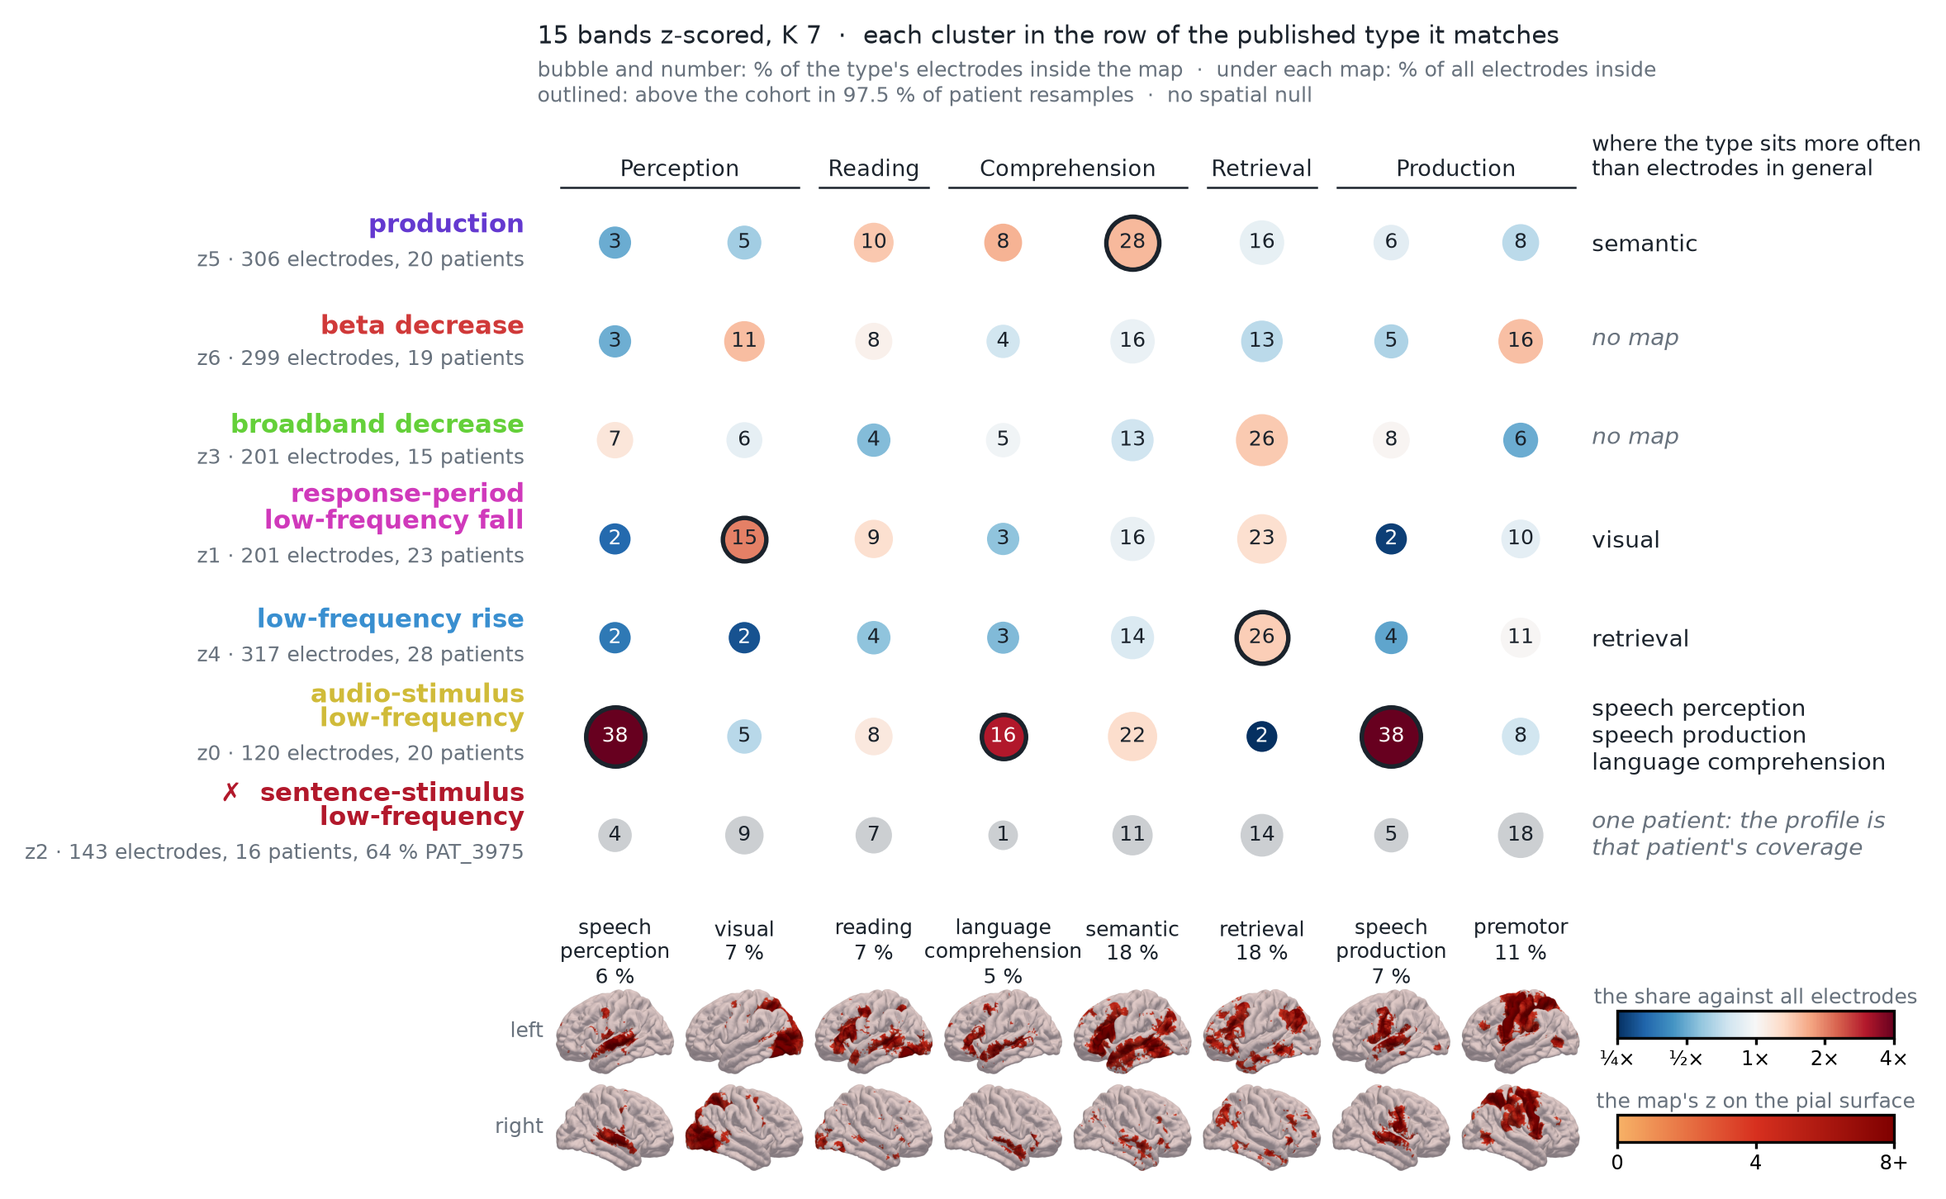
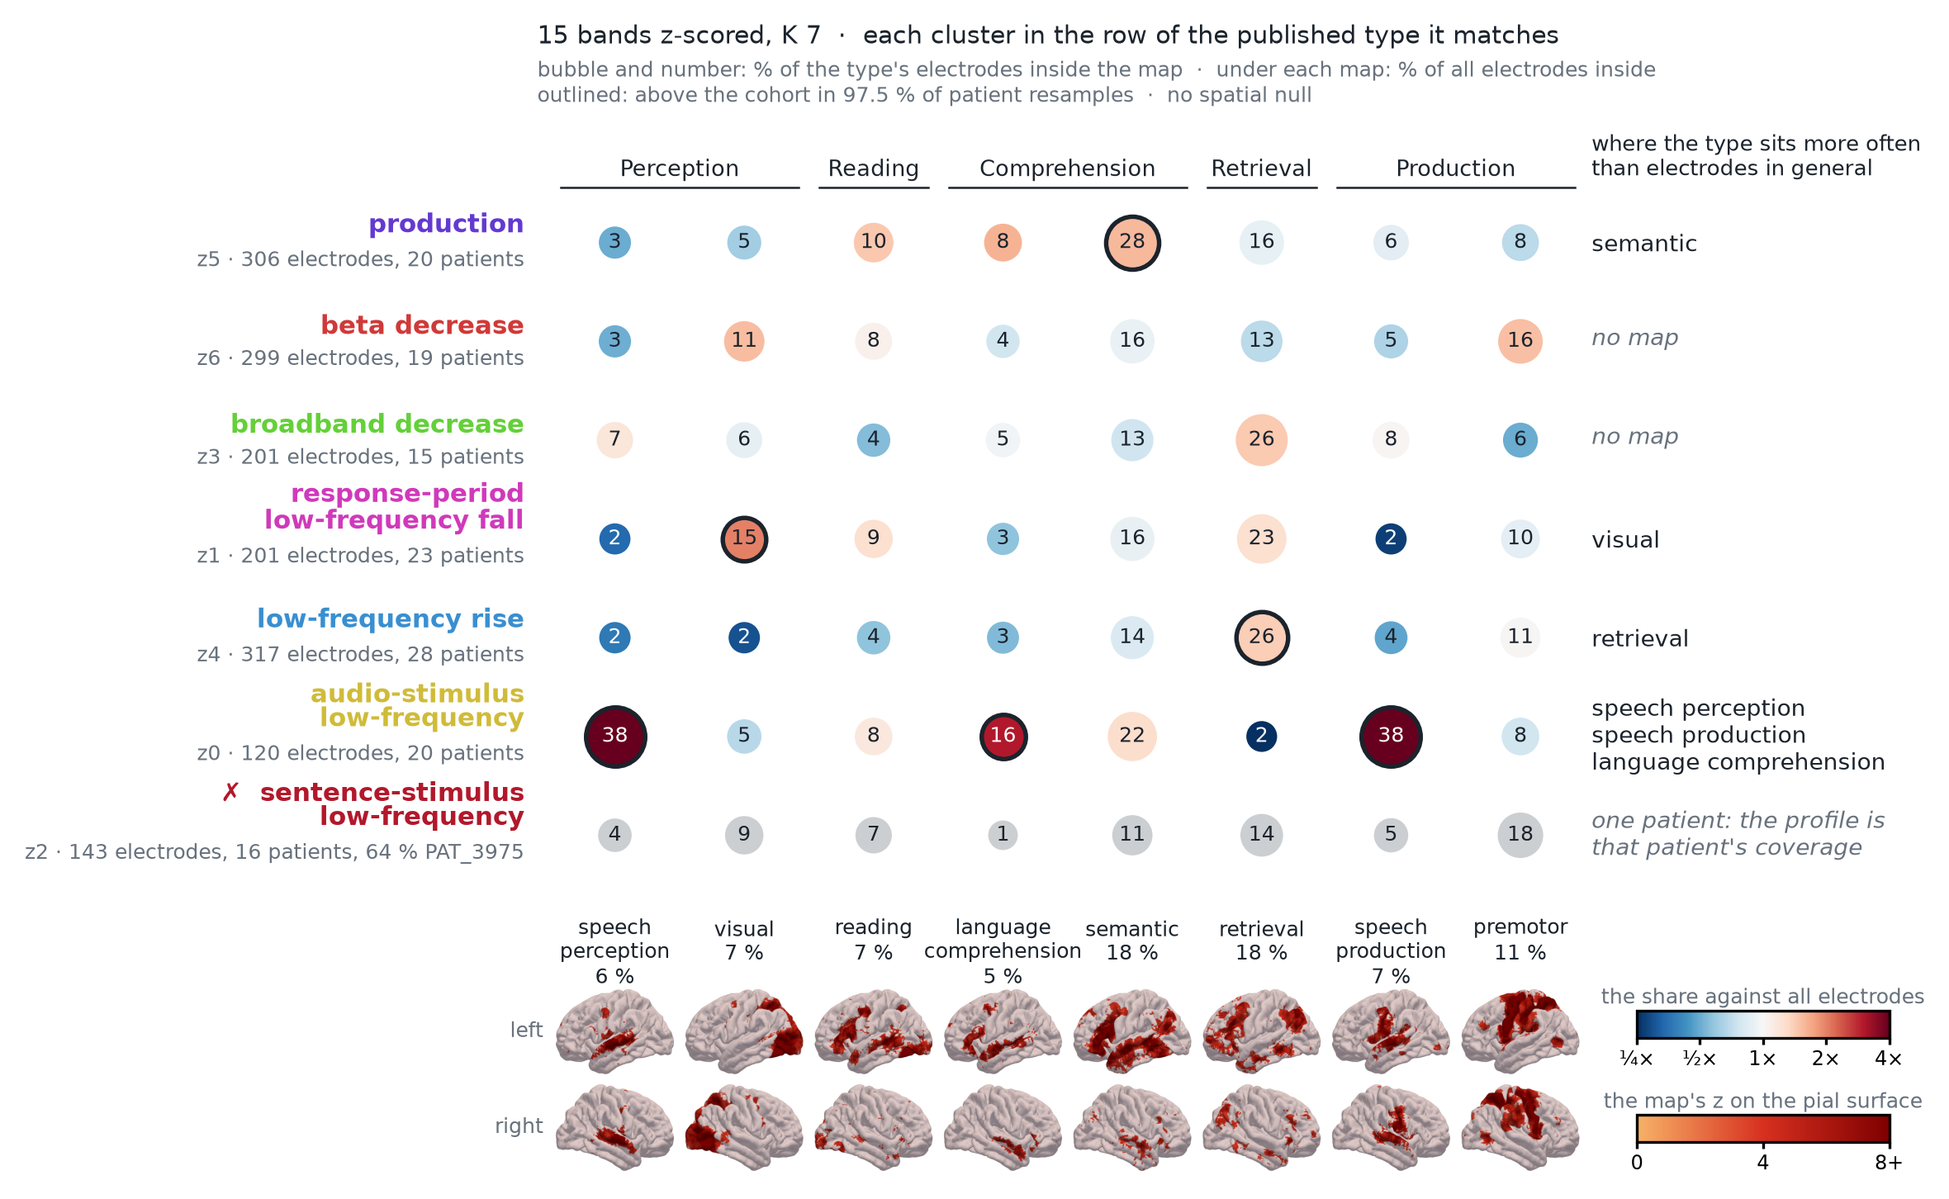
Poster NeuroSynth panel, second version: cluster ids only and each cluster's glass brains (render_hemi, the cards' rule) before its row, 28 cluster tiles reused with --no-render; the colour bars anchored right of the last column (Lora, 2026-11-03)

diff --git a/02_FBM_Clustering/make_poster_assets.py b/02_FBM_Clustering/make_poster_assets.py
@@ -20,6 +20,9 @@ Writes outputs/clustering/paper_figures/poster/assets/:
                          (out_k7/neurosynth_labels/labels.csv, nothing recomputed) at print size, for
                          15 bands and for the z-scored companion; under each map name the map on the
                          fsaverage pial surface (ns_brain_<term>_<side>.png, reused with --no-render)
+  neurosynth_<tag>_brains.png
+                         the same with the cluster ids only and each cluster's glass brains before its
+                         row (render_hemi, ns_cluster_<tag>_c<id>_<side>.png, reused with --no-render)
   separation_row.png     the two held-out confusions (one patient out, patient halves) and the
                          silhouette of every electrode per type against the Gaussian cloud;
                          separation_violin_loading.png is the loading alternative
@@ -485,109 +488,170 @@ def ns_brain_image(term, side):
     return img
 
 
+def cluster_brain(tag, c, side, d, zrun):
+    """The cluster's electrodes on the glass brain of one hemisphere under the paper's rule (render_hemi:
+    loading >= LOAD_CUT drawn, colour, size and opacity from the loading). A z-scored cluster is drawn in
+    the colour of the published type it matches. Saved as assets/ns_cluster_<tag>_c<c>_<side>.png and
+    reused with --no-render."""
+    p = OUT / f"ns_cluster_{tag}_c{c}_{side}.png"
+    if p.exists() and NO_RENDER:
+        return np.asarray(Image.open(p).convert("RGBA"))
+    if tag == "15band":
+        img, _ = P2.render_hemi(side, d, c)
+    else:
+        dz, colmap = zrun()
+        orig = P2.cluster_col
+        P2.cluster_col = lambda j, kk: colmap.get(j, (0.60, 0.60, 0.60))
+        try:
+            img, _ = P2.render_hemi(side, dz, c)
+        finally:
+            P2.cluster_col = orig
+    Image.fromarray(img).save(p)
+    return img
+
+
 def neurosynth(d):
     """The eight-map label matrix of member_measures/10_neurosynth_labels.py redrawn at print size,
     for 15 bands and for the z-scored companion: bubble and number = % of the type's electrodes
     inside the NeuroSynth map (z > 0), colour = that share against the cohort's (log scale),
     outlined = the share is above the cohort's in 97.5 % of patient resamples. Everything is read
     from out_k7/neurosynth_labels/labels.csv, nothing is recomputed. The z-scored clusters sit in
-    the row of the published type they are matched to (out_k7/matching.csv) and carry its name and
-    colour; a cluster that is more than half one patient is greyed with a cross. Under each map name the
-    map itself on the fsaverage pial surface, from the left and from the right (ns_brain_image)."""
+    the row of the published type they are matched to (out_k7/matching.csv) and carry its colour;
+    a cluster that is more than half one patient is greyed with a cross. Under each map name the
+    map itself on the fsaverage pial surface, from the left and from the right (ns_brain_image).
+    Two versions per set: neurosynth_<tag>.png with the type names, neurosynth_<tag>_brains.png
+    with the cluster ids only and each cluster's glass brains (cluster_brain) before its row."""
     from matplotlib.colors import TwoSlopeNorm
     lab = pd.read_csv(MM / "neurosynth_labels" / "labels.csv")
     match = pd.read_csv(MM / "matching.csv")
     norm = TwoSlopeNorm(vmin=-2, vcenter=0, vmax=2); cmap = plt.get_cmap("RdBu_r")
     names = [m for _, m in NS_MAPS]
+    _z = {}
+
+    def zrun():
+        """The z-scored run (its newest cNMF run, K 7) and its clusters' colours = their matched types'."""
+        if "d" not in _z:
+            dz = P2.load_run("concat_bands15z", K, "cnmf"); dz["fset"] = "concat_bands15z"
+            assert len(dz["xyz"]) == len(d["xyz"]) and np.allclose(np.nan_to_num(dz["xyz"]), np.nan_to_num(d["xyz"])), "the z run's electrodes are not in the published run's order"
+            mz = match[match.fset == "15zband"]
+            _z["d"] = dz; _z["col"] = {int(r.cluster): d["col"][int(r.type_15band)] for r in mz.itertuples()}
+        return _z["d"], _z["col"]
+
     out = {}
     for tag in ("15band", "15zband"):
         t = lab[(lab.fset == tag) & (lab.k == K)]
         meas = pd.read_csv(MM / tag / "measures.csv")
         npat = meas.assign(p=meas.key.str.split("|").str[0]).groupby("type").p.nunique()
-        rows = []                                          # (cluster, type name, colour, prefix of the count line)
+        rows = []                                          # (cluster, type name, colour, published type)
         for j in d["order"]:
             if tag == "15band":
-                rows.append((j, d["names"].get(j, f"c{j}"), d["col"][j], ""))
+                rows.append((j, d["names"].get(j, f"c{j}"), d["col"][j], j))
             else:
                 m = match[(match.fset == tag) & (match.type_15band == j)]
                 if not m.empty:
-                    c = int(m.cluster.iloc[0]); rows.append((c, d["names"].get(j, f"c{j}"), d["col"][j], f"z{c} · "))
+                    rows.append((int(m.cluster.iloc[0]), d["names"].get(j, f"c{j}"), d["col"][j], j))
         n_rows = len(rows)
-        fig_h = 1.4 + 0.46 * n_rows + 1.15                 # 1.15 in for the brains under the names
-        fig, ax = plt.subplots(figsize=(7.4, fig_h), dpi=DPI)
-        fig.subplots_adjust(left=0.20, right=0.955, top=1 - 0.65 / fig_h, bottom=1.95 / fig_h)
-        print(f"  neurosynth {tag}:")
-        for r_, (c, name, col, pre) in enumerate(rows):
-            y = n_rows - 1 - r_
-            tc = t[t.cluster == c].set_index("map")
-            top_share = float(tc.top_patient_share.iloc[0]); bad = top_share > 0.5
+        for brains in (False, True):
+            fig_h = 1.4 + 0.46 * n_rows + 1.15                 # 1.15 in for the brains under the names
+            fig, ax = plt.subplots(figsize=(7.4, fig_h), dpi=DPI)
+            left = 0.07 if brains else 0.20
+            fig.subplots_adjust(left=left, right=0.955, top=1 - 0.65 / fig_h, bottom=1.95 / fig_h)
+            xl, xn = (-2.95, -3.05) if brains else (-0.6, -0.7)   # the axes' left edge and where the row label sits
+            print(f"  neurosynth {tag}{' with the cluster brains' if brains else ''}:")
+            brain_rows = []
+            for r_, (c, name, col, j) in enumerate(rows):
+                y = n_rows - 1 - r_
+                tc = t[t.cluster == c].set_index("map")
+                top_share = float(tc.top_patient_share.iloc[0]); bad = top_share > 0.5
+                for x, mname in enumerate(names):
+                    q = tc.loc[mname]
+                    pct = float(q.pct_inside); le = float(np.log2(max(float(q.enrichment), 1e-3)))
+                    face = NS_GREY if bad else cmap(norm(float(np.clip(le, -2, 2))))
+                    sure = bool(q.outlined) and not bad
+                    ax.scatter(x, y, s=70 + 360 * min(pct, 60) / 60, c=[face], alpha=0.5 if bad else 1.0,
+                               edgecolors=INK if sure else "none", linewidths=1.3 if sure else 0, zorder=3)
+                    ax.text(x, y, f"{pct:.0f}", ha="center", va="center", fontsize=6.0, zorder=4,
+                            color="white" if (not bad and abs(le) > 1.1) else INK)
+                n_ = int(tc.n.iloc[0]); p_ = int(npat.get(c, 0))
+                if brains:
+                    head = f"c{c}" if tag == "15band" else f"z{c}"
+                    sub = ("" if tag == "15band" else f"≈ c{j} · ") + f"{n_} electrodes, {p_} patients"
+                    brain_rows.append((y, c))
+                else:
+                    head = wrap_name(name)
+                    sub = ("" if tag == "15band" else f"z{c} · ") + f"{n_} electrodes, {p_} patients"
+                if bad:
+                    sub += f", {100 * top_share:.0f} % {tc.top_patient.iloc[0]}"
+                ax.text(xn, y + 0.04, ("✗  " if bad else "") + head, ha="right", va="bottom", fontsize=7.4,
+                        color="#b2182b" if bad else col, fontweight="bold", linespacing=1.05)
+                ax.text(xn, y - 0.08, sub, ha="right", va="top", fontsize=6.0, color=MUTED)
+                sure_maps = tc[tc.outlined.astype(bool)].sort_values("enrichment", ascending=False).index.tolist()
+                if bad:
+                    label = "one patient: the profile is" + NL + "that patient's coverage"
+                elif sure_maps:
+                    label = NL.join(sure_maps[:3])
+                else:
+                    label = "no map"
+                ax.text(len(names) - 0.45, y, label, ha="left", va="center", fontsize=6.8, linespacing=1.15,
+                        color=MUTED if (bad or not sure_maps) else INK, style="italic" if (bad or not sure_maps) else "normal")
+                print(f"    {head.replace(NL, ' '):36s} {label.replace(NL, ' / ')}")
+            stages = [s for s, _ in NS_MAPS]
+            for s in dict.fromkeys(stages):
+                cs = [i for i, x in enumerate(stages) if x == s]
+                ax.text(float(np.mean(cs)), n_rows - 0.38, s, ha="center", va="bottom", fontsize=6.4, color=INK)
+                ax.plot([min(cs) - 0.42, max(cs) + 0.42], [n_rows - 0.44] * 2, color=INK, lw=0.6)
+            coh = t[t.cluster == rows[0][0]].set_index("map").cohort_pct
+            ax.set_xticks(range(len(names)))
+            ax.set_xticklabels([f"{m.replace(' ', NL)}{NL}{float(coh[m]):.0f} %" for m in names], fontsize=6.0, color=INK, linespacing=1.15)
+            ax.set_yticks([]); ax.set_xlim(xl, len(names) + 2.1); ax.set_ylim(-0.7, n_rows + 0.25)
+            for s_ in ax.spines.values():
+                s_.set_visible(False)
+            ax.tick_params(length=0)
+            ax.text(len(names) - 0.45, n_rows - 0.38, "where the type sits more often" + NL + "than electrodes in general", ha="left", va="bottom", fontsize=6.2, color=INK, linespacing=1.15)
+            aw, ah = 7.4 * (0.955 - left), fig_h - 0.65 - 1.95
+            x0_, x1_ = ax.get_xlim(); u = 1.0 / (x1_ - x0_)
+            y0_, y1_ = ax.get_ylim(); v = 1.0 / (y1_ - y0_)
+            # the cluster's own electrodes on the glass brain, left and right, before its row
+            for y, c in brain_rows:
+                for k_, side in enumerate(("L", "R")):
+                    im = cluster_brain(tag, c, side, d, zrun)
+                    w_f = 0.92 * u; h_f = w_f * aw / ah * im.shape[0] / im.shape[1]
+                    ia = ax.inset_axes([(-2.45 + 0.95 * k_ - x0_) * u - w_f / 2, (y - y0_) * v - h_f / 2, w_f, h_f])
+                    ia.imshow(im); ia.axis("off")
+            if brains:
+                for k_, side in enumerate(("L", "R")):
+                    ax.text(-2.45 + 0.95 * k_, n_rows - 0.38, "left" if side == "L" else "right", ha="center", va="bottom", fontsize=6.4, color=INK)
+                ax.plot([-2.45 - 0.42, -1.5 + 0.42], [n_rows - 0.44] * 2, color=INK, lw=0.6)
+            # the maps themselves under the names: the pial surface from the left and from the right, z > 0 painted on it
+            y_top = -0.34 / ah
             for x, mname in enumerate(names):
-                q = tc.loc[mname]
-                pct = float(q.pct_inside); le = float(np.log2(max(float(q.enrichment), 1e-3)))
-                face = NS_GREY if bad else cmap(norm(float(np.clip(le, -2, 2))))
-                sure = bool(q.outlined) and not bad
-                ax.scatter(x, y, s=70 + 360 * min(pct, 60) / 60, c=[face], alpha=0.5 if bad else 1.0,
-                           edgecolors=INK if sure else "none", linewidths=1.3 if sure else 0, zorder=3)
-                ax.text(x, y, f"{pct:.0f}", ha="center", va="center", fontsize=6.0, zorder=4,
-                        color="white" if (not bad and abs(le) > 1.1) else INK)
-            n_ = int(tc.n.iloc[0]); p_ = int(npat.get(c, 0))
-            ax.text(-0.7, y + 0.04, ("✗  " if bad else "") + wrap_name(name), ha="right", va="bottom", fontsize=7.4,
-                    color="#b2182b" if bad else col, fontweight="bold", linespacing=1.05)
-            ax.text(-0.7, y - 0.08, pre + f"{n_} electrodes, {p_} patients" + (f", {100 * top_share:.0f} % {tc.top_patient.iloc[0]}" if bad else ""),
-                    ha="right", va="top", fontsize=6.0, color=MUTED)
-            sure_maps = tc[tc.outlined.astype(bool)].sort_values("enrichment", ascending=False).index.tolist()
-            if bad:
-                label = "one patient: the profile is" + NL + "that patient's coverage"
-            elif sure_maps:
-                label = NL.join(sure_maps[:3])
-            else:
-                label = "no map"
-            ax.text(len(names) - 0.45, y, label, ha="left", va="center", fontsize=6.8, linespacing=1.15,
-                    color=MUTED if (bad or not sure_maps) else INK, style="italic" if (bad or not sure_maps) else "normal")
-            print(f"    {pre}{name:36s} {label.replace(NL, ' / ')}")
-        stages = [s for s, _ in NS_MAPS]
-        for s in dict.fromkeys(stages):
-            cs = [i for i, x in enumerate(stages) if x == s]
-            ax.text(float(np.mean(cs)), n_rows - 0.38, s, ha="center", va="bottom", fontsize=6.4, color=INK)
-            ax.plot([min(cs) - 0.42, max(cs) + 0.42], [n_rows - 0.44] * 2, color=INK, lw=0.6)
-        coh = t[t.cluster == rows[0][0]].set_index("map").cohort_pct
-        ax.set_xticks(range(len(names)))
-        ax.set_xticklabels([f"{m.replace(' ', NL)}{NL}{float(coh[m]):.0f} %" for m in names], fontsize=6.0, color=INK, linespacing=1.15)
-        ax.set_yticks([]); ax.set_xlim(-0.6, len(names) + 2.1); ax.set_ylim(-0.7, n_rows + 0.25)
-        for s_ in ax.spines.values():
-            s_.set_visible(False)
-        ax.tick_params(length=0)
-        ax.text(len(names) - 0.45, n_rows - 0.38, "where the type sits more often" + NL + "than electrodes in general", ha="left", va="bottom", fontsize=6.2, color=INK, linespacing=1.15)
-        # the maps themselves under the names: the pial surface from the left and from the right, z > 0 painted on it
-        aw, ah = 7.4 * (0.955 - 0.20), fig_h - 0.65 - 1.95
-        x0_, x1_ = ax.get_xlim(); u = 1.0 / (x1_ - x0_)
-        y_top = -0.34 / ah
-        for x, mname in enumerate(names):
-            for k_, side in enumerate(("L", "R")):
-                im = ns_brain_image(mname, side)
-                w_f = 0.92 * u; h_f = w_f * aw / ah * im.shape[0] / im.shape[1]
-                y_f = y_top - (k_ + 1) * h_f - k_ * 0.03 / ah
-                ia = ax.inset_axes([(x - x0_) * u - w_f / 2, y_f, w_f, h_f])
-                ia.imshow(im); ia.axis("off")
-                if x == 0:
-                    ia.text(-0.1, 0.5, "left" if side == "L" else "right", transform=ia.transAxes, ha="right", va="center", fontsize=6.0, color=MUTED)
-        cax2 = ax.inset_axes([0.78, y_top - 0.62 / ah, 0.20, 0.035])
-        cb2 = fig.colorbar(plt.cm.ScalarMappable(norm=matplotlib.colors.Normalize(0, NS_ZMAX), cmap=NS_CMAP), cax=cax2, orientation="horizontal", ticks=[0, 4, 8])
-        cb2.ax.set_xticklabels(["0", "4", "8+"], fontsize=5.8); cb2.ax.tick_params(length=2, pad=1.5)
-        cax2.set_title("the map's z on the pial surface", fontsize=6.0, color=MUTED, pad=2)
-        cax = ax.inset_axes([0.78, -0.17, 0.20, 0.035])
-        cb = fig.colorbar(plt.cm.ScalarMappable(norm=norm, cmap=cmap), cax=cax, orientation="horizontal", ticks=[-2, -1, 0, 1, 2])
-        cb.ax.set_xticklabels(["¼×", "½×", "1×", "2×", "4×"], fontsize=5.8); cb.ax.tick_params(length=2, pad=1.5)
-        cax.set_title("the share against all electrodes", fontsize=6.0, color=MUTED, pad=2)
-        ax.set_title("15 bands, K 7" if tag == "15band" else "15 bands z-scored, K 7  ·  each cluster in the row of the published type it matches",
-                     fontsize=7.2, loc="left", color=INK, pad=22)
-        ax.annotate("bubble and number: % of the type's electrodes inside the map  ·  under each map: % of all electrodes inside" + NL
-                    + "outlined: above the cohort in 97.5 % of patient resamples  ·  no spatial null",
-                    xy=(0, 1), xycoords="axes fraction", xytext=(0, 3), textcoords="offset points", fontsize=5.9, color=MUTED, va="bottom", linespacing=1.25)
-        p = OUT / f"neurosynth_{tag}.png"; fig.savefig(p, facecolor="white", bbox_inches="tight"); plt.close(fig)
-        out[tag] = p
-        im = Image.open(p); print(f"    -> {p.name}  {im.size[0]} x {im.size[1]} px")
-    return out["15band"]
+                for k_, side in enumerate(("L", "R")):
+                    im = ns_brain_image(mname, side)
+                    w_f = 0.92 * u; h_f = w_f * aw / ah * im.shape[0] / im.shape[1]
+                    y_f = y_top - (k_ + 1) * h_f - k_ * 0.03 / ah
+                    ia = ax.inset_axes([(x - x0_) * u - w_f / 2, y_f, w_f, h_f])
+                    ia.imshow(im); ia.axis("off")
+                    if x == 0:
+                        ia.text(-0.1, 0.5, "left" if side == "L" else "right", transform=ia.transAxes, ha="right", va="center", fontsize=6.0, color=MUTED)
+            cbx, cbw = (len(names) - 0.1 - x0_) * u, 1.95 * u      # the two colour bars right of the last column
+            cax2 = ax.inset_axes([cbx, y_top - 0.62 / ah, cbw, 0.035])
+            cb2 = fig.colorbar(plt.cm.ScalarMappable(norm=matplotlib.colors.Normalize(0, NS_ZMAX), cmap=NS_CMAP), cax=cax2, orientation="horizontal", ticks=[0, 4, 8])
+            cb2.ax.set_xticklabels(["0", "4", "8+"], fontsize=5.8); cb2.ax.tick_params(length=2, pad=1.5)
+            cax2.set_title("the map's z on the pial surface", fontsize=6.0, color=MUTED, pad=2)
+            cax = ax.inset_axes([cbx, -0.17, cbw, 0.035])
+            cb = fig.colorbar(plt.cm.ScalarMappable(norm=norm, cmap=cmap), cax=cax, orientation="horizontal", ticks=[-2, -1, 0, 1, 2])
+            cb.ax.set_xticklabels(["¼×", "½×", "1×", "2×", "4×"], fontsize=5.8); cb.ax.tick_params(length=2, pad=1.5)
+            cax.set_title("the share against all electrodes", fontsize=6.0, color=MUTED, pad=2)
+            ax.set_title("15 bands, K 7" if tag == "15band" else "15 bands z-scored, K 7  ·  each cluster in the row of the published type it matches",
+                         fontsize=7.2, loc="left", color=INK, pad=22)
+            ax.annotate("bubble and number: % of the type's electrodes inside the map  ·  under each map: % of all electrodes inside" + NL
+                        + "outlined: above the cohort in 97.5 % of patient resamples  ·  no spatial null"
+                        + ("  ·  glass brains: the cluster's electrodes at loading ≥ 0.3, colour and size by loading" if brains else ""),
+                        xy=(0, 1), xycoords="axes fraction", xytext=(0, 3), textcoords="offset points", fontsize=5.9, color=MUTED, va="bottom", linespacing=1.25)
+            p = OUT / f"neurosynth_{tag}{'_brains' if brains else ''}.png"; fig.savefig(p, facecolor="white", bbox_inches="tight"); plt.close(fig)
+            out[(tag, brains)] = p
+            im = Image.open(p); print(f"    -> {p.name}  {im.size[0]} x {im.size[1]} px")
+    return out[("15band", False)]
 
 
 def main() -> int:

diff --git a/02_FBM_Clustering/outputs/clustering/paper_figures/poster/poster_round3_prompt.md b/02_FBM_Clustering/outputs/clustering/paper_figures/poster/poster_round3_prompt.md
@@ -29,3 +29,4 @@ Caption under the table: "Diagonal share: the fraction of electrodes on the matc
 - assets\stability_row.png (consensus matrix and the K panel)
 - assets\neurosynth_15band.png (2107 x 1452 px, the eight-map NeuroSynth label matrix, 15 bands, each map on the pial surface under its name)
 - assets\neurosynth_15zband.png (2356 x 1452 px, the same for the z-scored companion)
+- assets\neurosynth_15band_brains.png and neurosynth_15zband_brains.png (2406 and 2697 x 1452 px): the same two panels with the cluster ids only and each cluster on the glass brains before its row, the version to use if the box has the width
